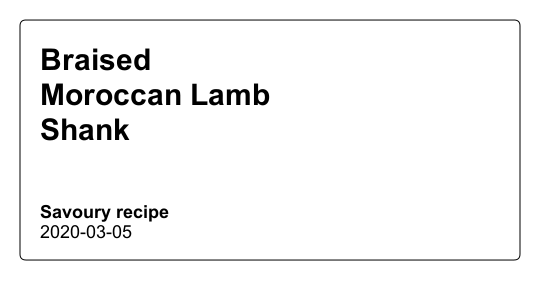
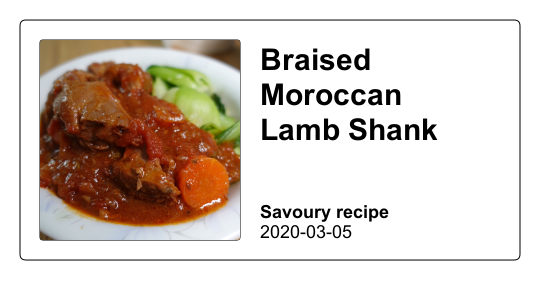
add image for braised lamb

diff --git a/_posts/braised-moroccan-lamb-shank.md b/_posts/braised-moroccan-lamb-shank.md
@@ -1,7 +1,7 @@
 ---
 recipe_name: "Braised Moroccan Lamb Shank"
 slug: "braised-moroccan-lamb-shank"
-image: []
+image: ["lamb-shank-1.jpg", "lamb-shank-2.jpg"]
 date: "2020-03-05"
 serving: 4
 serving_size: "people"
